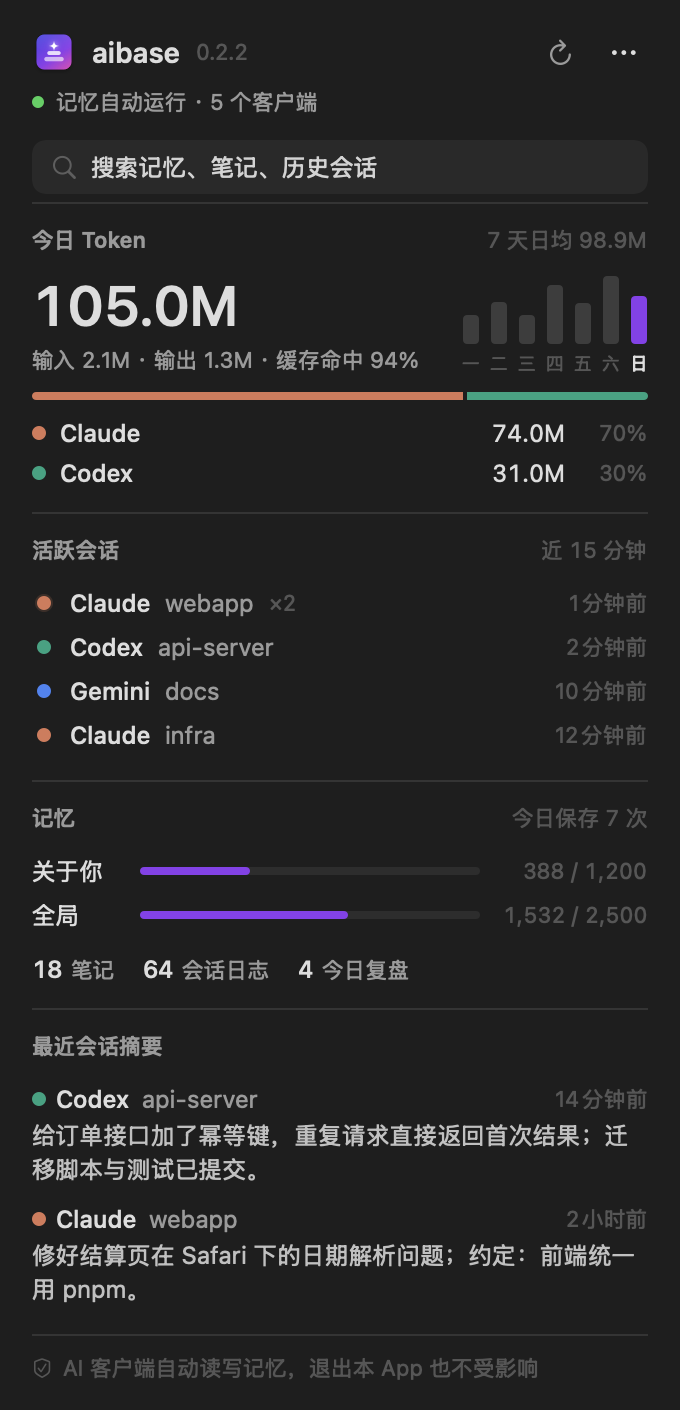
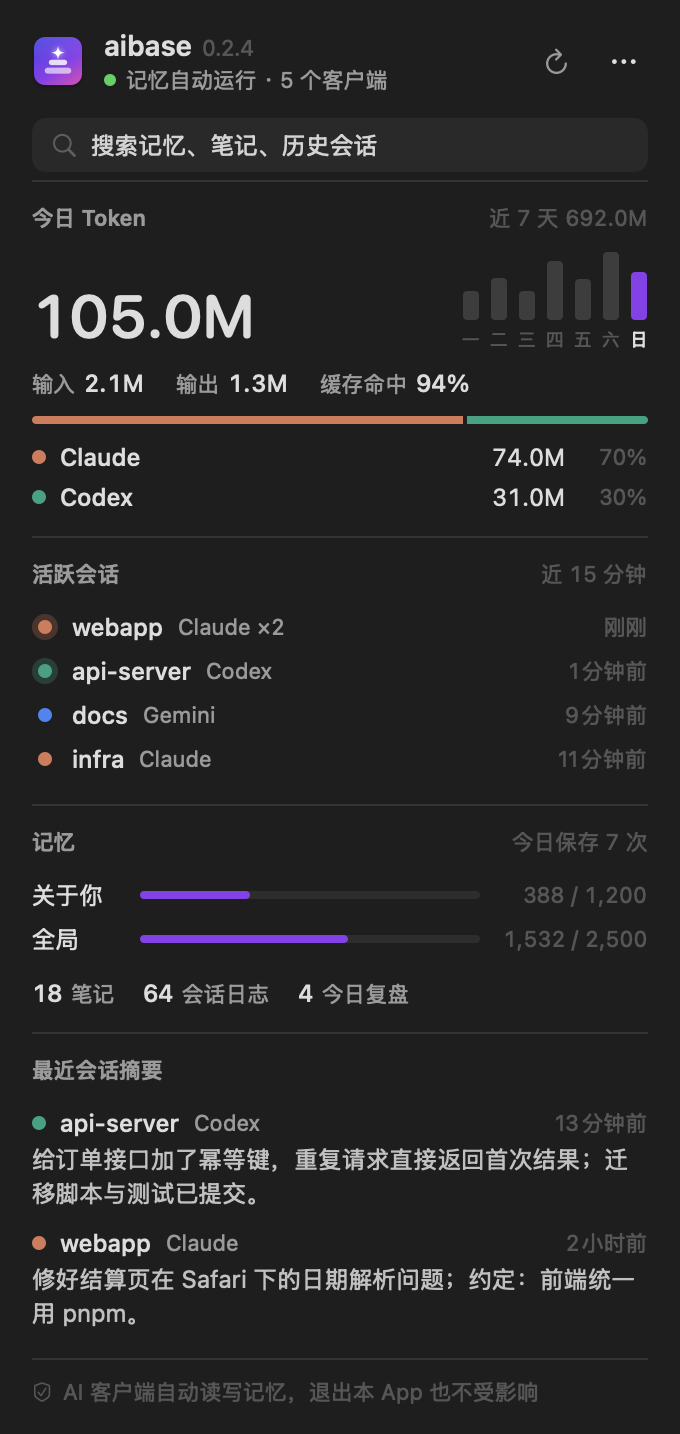
Stop idle redraws in the menu bar app; tighten the panel layout
Looping animations (live-session pulse, refresh spinner) kept the app at
~10% CPU even with the panel closed; it now idles at ~0.1%. The header
stacks title and status, token metrics fit on one line, the trend shows
the 7-day total instead of an average skewed by today's partial day, and
session rows lead with the project name.

diff --git a/macos/Sources/App.swift b/macos/Sources/App.swift
@@ -101,6 +101,7 @@ struct Dashboard: View {
 }
 
 enum Fonts {
+    static let hero = Font.system(size: 30, weight: .semibold, design: .rounded)
     static let title = Font.system(size: 14, weight: .semibold)
     static let body = Font.system(size: 12)
     static let label = Font.system(size: 12, weight: .medium)
@@ -160,27 +161,28 @@ struct Header: View {
     @EnvironmentObject var store: Store
 
     var body: some View {
-        VStack(alignment: .leading, spacing: 6) {
-            HStack(spacing: 8) {
-                Image(nsImage: Mark.appIcon(size: 64)).resizable().frame(width: 22, height: 22)
-                Text("aibase").font(Fonts.title)
-                if let v = store.stats?.version { Text(v).font(Fonts.caption).foregroundStyle(.tertiary) }
-                Spacer()
-                Button { store.refresh() } label: {
-                    Image(systemName: "arrow.clockwise").rotationEffect(.degrees(store.loading ? 360 : 0))
-                        .animation(store.loading ? .linear(duration: 0.8).repeatForever(autoreverses: false) : .default, value: store.loading)
+        HStack(spacing: 10) {
+            Image(nsImage: Mark.appIcon(size: 64)).resizable().frame(width: 30, height: 30).padding(-2)
+            VStack(alignment: .leading, spacing: 2) {
+                HStack(alignment: .firstTextBaseline, spacing: 5) {
+                    Text("aibase").font(Fonts.title)
+                    if let v = store.stats?.version { Text(v).font(Fonts.caption).foregroundStyle(.tertiary) }
                 }
-                .buttonStyle(IconButton()).keyboardShortcut("r").help(L("刷新 (⌘R)", "Refresh (⌘R)"))
-                SettingsMenu()
-            }
-            if let s = store.stats {
-                let (ok, text) = status(s)
-                HStack(spacing: 6) {
-                    Circle().fill(ok ? Color.green : Color.orange).frame(width: 6, height: 6)
-                    Text(text).lineLimit(1)
+                if let s = store.stats {
+                    let (ok, text) = status(s)
+                    HStack(spacing: 5) {
+                        Circle().fill(ok ? Color.green : Color.orange).frame(width: 6, height: 6)
+                        Text(text).lineLimit(1)
+                    }
+                    .font(Fonts.caption).foregroundStyle(.secondary)
                 }
-                .font(Fonts.caption).foregroundStyle(.secondary)
             }
+            Spacer()
+            Button { store.refresh() } label: {
+                if store.loading { ProgressView().controlSize(.mini) } else { Image(systemName: "arrow.clockwise") }
+            }
+            .buttonStyle(IconButton()).keyboardShortcut("r").help(L("刷新 (⌘R)", "Refresh (⌘R)"))
+            SettingsMenu()
         }
     }
 
@@ -240,17 +242,15 @@ struct TokensSection: View {
     var body: some View {
         Block(title: L("今日 Token", "Tokens today"), trailing: trailing) {
             HStack(alignment: .bottom) {
-                VStack(alignment: .leading, spacing: 4) {
-                    Text(compact(a.todayTotal))
-                        .font(.system(size: 28, weight: .semibold))
-                        .monospacedDigit()
-                        .numeric()
-                        .animation(.easeOut(duration: 0.3), value: a.todayTotal)
-                    Text(detail).font(Fonts.caption).foregroundStyle(.secondary)
-                }
+                Text(compact(a.todayTotal))
+                    .font(Fonts.hero)
+                    .monospacedDigit()
+                    .numeric()
+                    .animation(.easeOut(duration: 0.3), value: a.todayTotal)
                 Spacer()
                 WeekBars(days: a.days, hover: $hover)
             }
+            metrics
             if a.todayTotal > 0 {
                 GeometryReader { g in
                     HStack(spacing: 2) {
@@ -283,19 +283,31 @@ struct TokensSection: View {
             let d = a.days[i]
             return "\(i == a.days.count - 1 ? L("今天", "Today") : String(d.date.dropFirst(5))) · \(compact(d.total))"
         }
-        let used = a.days.filter { $0.total > 0 }
-        guard !used.isEmpty else { return L("近 7 天", "Last 7 days") }
-        return L("7 天日均 ", "7-day avg ") + compact(used.map(\.total).reduce(0, +) / Int64(used.count))
+        return L("近 7 天 ", "7 days ") + compact(a.days.map(\.total).reduce(0, +))
     }
 
-    private var detail: String {
+    private var metrics: some View {
         var t = Tokens()
         for (_, v) in a.today {
             t.input += v.input; t.output += v.output; t.cacheRead += v.cacheRead; t.cacheWrite += v.cacheWrite
         }
-        let prompt = t.input + t.cacheRead + t.cacheWrite
-        let hit = percent(t.cacheRead, prompt)
-        return L("输入 \(compact(t.input)) · 输出 \(compact(t.output)) · 缓存命中 \(hit)", "In \(compact(t.input)) · Out \(compact(t.output)) · Cache hit \(hit)")
+        return HStack(spacing: 16) {
+            Metric(label: L("输入", "In"), value: compact(t.input))
+            Metric(label: L("输出", "Out"), value: compact(t.output))
+            Metric(label: L("缓存命中", "Cache hit"), value: percent(t.cacheRead, t.input + t.cacheRead + t.cacheWrite))
+        }
+    }
+}
+
+struct Metric: View {
+    let label: String
+    let value: String
+
+    var body: some View {
+        HStack(alignment: .firstTextBaseline, spacing: 4) {
+            Text(label).font(Fonts.caption).foregroundStyle(.secondary)
+            Text(value).font(Fonts.label).monospacedDigit()
+        }
     }
 }
 
@@ -394,12 +406,11 @@ struct SessionsSection: View {
             if let d = g.dir, !d.isEmpty { reveal(URL(fileURLWithPath: d)) }
         } label: {
             HStack(spacing: 7) {
-                Pulse(color: Color(Palette.client(g.client)), live: (parseDate(g.updated).map { Date().timeIntervalSince($0) < 120 }) ?? false)
-                Text(Palette.clientName(g.client)).font(Fonts.label)
-                Text(name(g.project)).font(Fonts.body).foregroundStyle(.secondary).lineLimit(1).truncationMode(.middle)
-                if g.count > 1 { Text("×\(g.count)").font(Fonts.caption).monospacedDigit().foregroundStyle(.tertiary) }
-                Spacer()
-                Text(relative(g.updated)).font(Fonts.caption).foregroundStyle(.tertiary)
+                Live(color: Color(Palette.client(g.client)), on: (parseDate(g.updated).map { Date().timeIntervalSince($0) < 120 }) ?? false)
+                Text(name(g.project)).font(Fonts.label).lineLimit(1).truncationMode(.tail)
+                Text(Palette.clientName(g.client) + (g.count > 1 ? " ×\(g.count)" : "")).font(Fonts.caption).monospacedDigit().foregroundStyle(.secondary).fixedSize()
+                Spacer(minLength: 8)
+                Text(relative(g.updated)).font(Fonts.caption).foregroundStyle(.tertiary).fixedSize()
             }
             .hoverRow()
         }
@@ -416,21 +427,17 @@ struct SessionsSection: View {
     }
 }
 
-struct Pulse: View {
+// Static on purpose: a looping animation keeps redrawing even while the panel is closed.
+struct Live: View {
     let color: Color
-    let live: Bool
-    @State private var on = false
+    let on: Bool
 
     var body: some View {
         ZStack {
-            if live {
-                Circle().fill(color.opacity(0.35)).frame(width: 12, height: 12).scaleEffect(on ? 1 : 0.5).opacity(on ? 0 : 1)
-                    .animation(.easeOut(duration: 1.4).repeatForever(autoreverses: false), value: on)
-            }
+            if on { Circle().fill(color.opacity(0.25)).frame(width: 13, height: 13) }
             Circle().fill(color).frame(width: 7, height: 7)
         }
-        .frame(width: 12, height: 12)
-        .onAppear { on = true }
+        .frame(width: 13, height: 13)
     }
 }
 
@@ -510,11 +517,17 @@ struct RecentSection: View {
                 ForEach(Array(recent.enumerated()), id: \.offset) { i, r in
                     Button { open = open == i ? nil : i } label: {
                         VStack(alignment: .leading, spacing: 3) {
-                            HStack(spacing: 6) {
-                                ClientLabel(agent: (r.agent ?? "").replacingOccurrences(of: "legacy-", with: ""))
-                                if let p = r.project, !p.isEmpty { Text(project(p)).font(Fonts.body).foregroundStyle(.secondary).lineLimit(1) }
-                                Spacer()
-                                Text(relative(r.ts)).font(Fonts.caption).foregroundStyle(.tertiary)
+                            HStack(spacing: 7) {
+                                let agent = (r.agent ?? "").replacingOccurrences(of: "legacy-", with: "")
+                                Dot(client: agent)
+                                if let p = r.project, !p.isEmpty {
+                                    Text(project(p)).font(Fonts.label).lineLimit(1)
+                                    Text(Palette.clientName(agent)).font(Fonts.caption).foregroundStyle(.secondary).fixedSize()
+                                } else {
+                                    Text(Palette.clientName(agent)).font(Fonts.label)
+                                }
+                                Spacer(minLength: 8)
+                                Text(relative(r.ts)).font(Fonts.caption).foregroundStyle(.tertiary).fixedSize()
                             }
                             Text(summary(r.text, full: open == i)).font(Fonts.body).foregroundStyle(.primary.opacity(0.85)).lineLimit(open == i ? 12 : 2)
                                 .lineSpacing(2)
